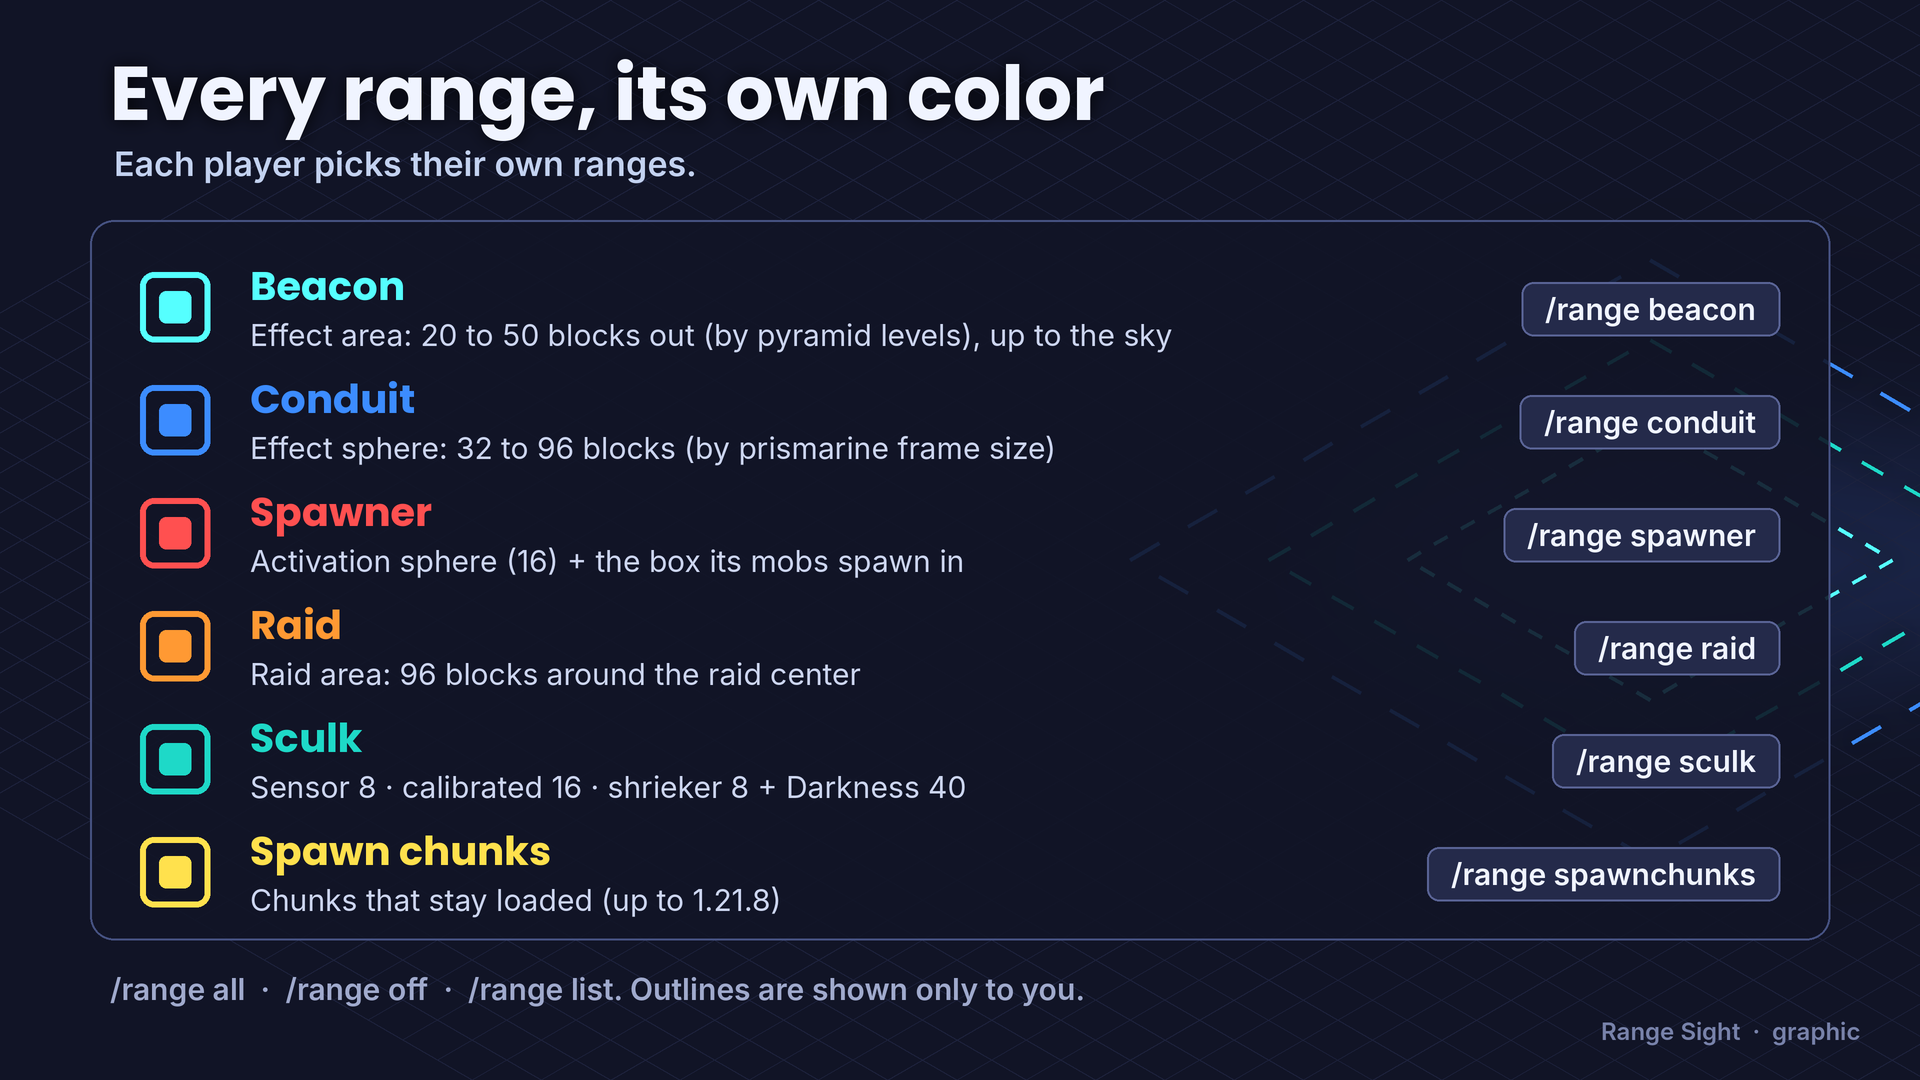
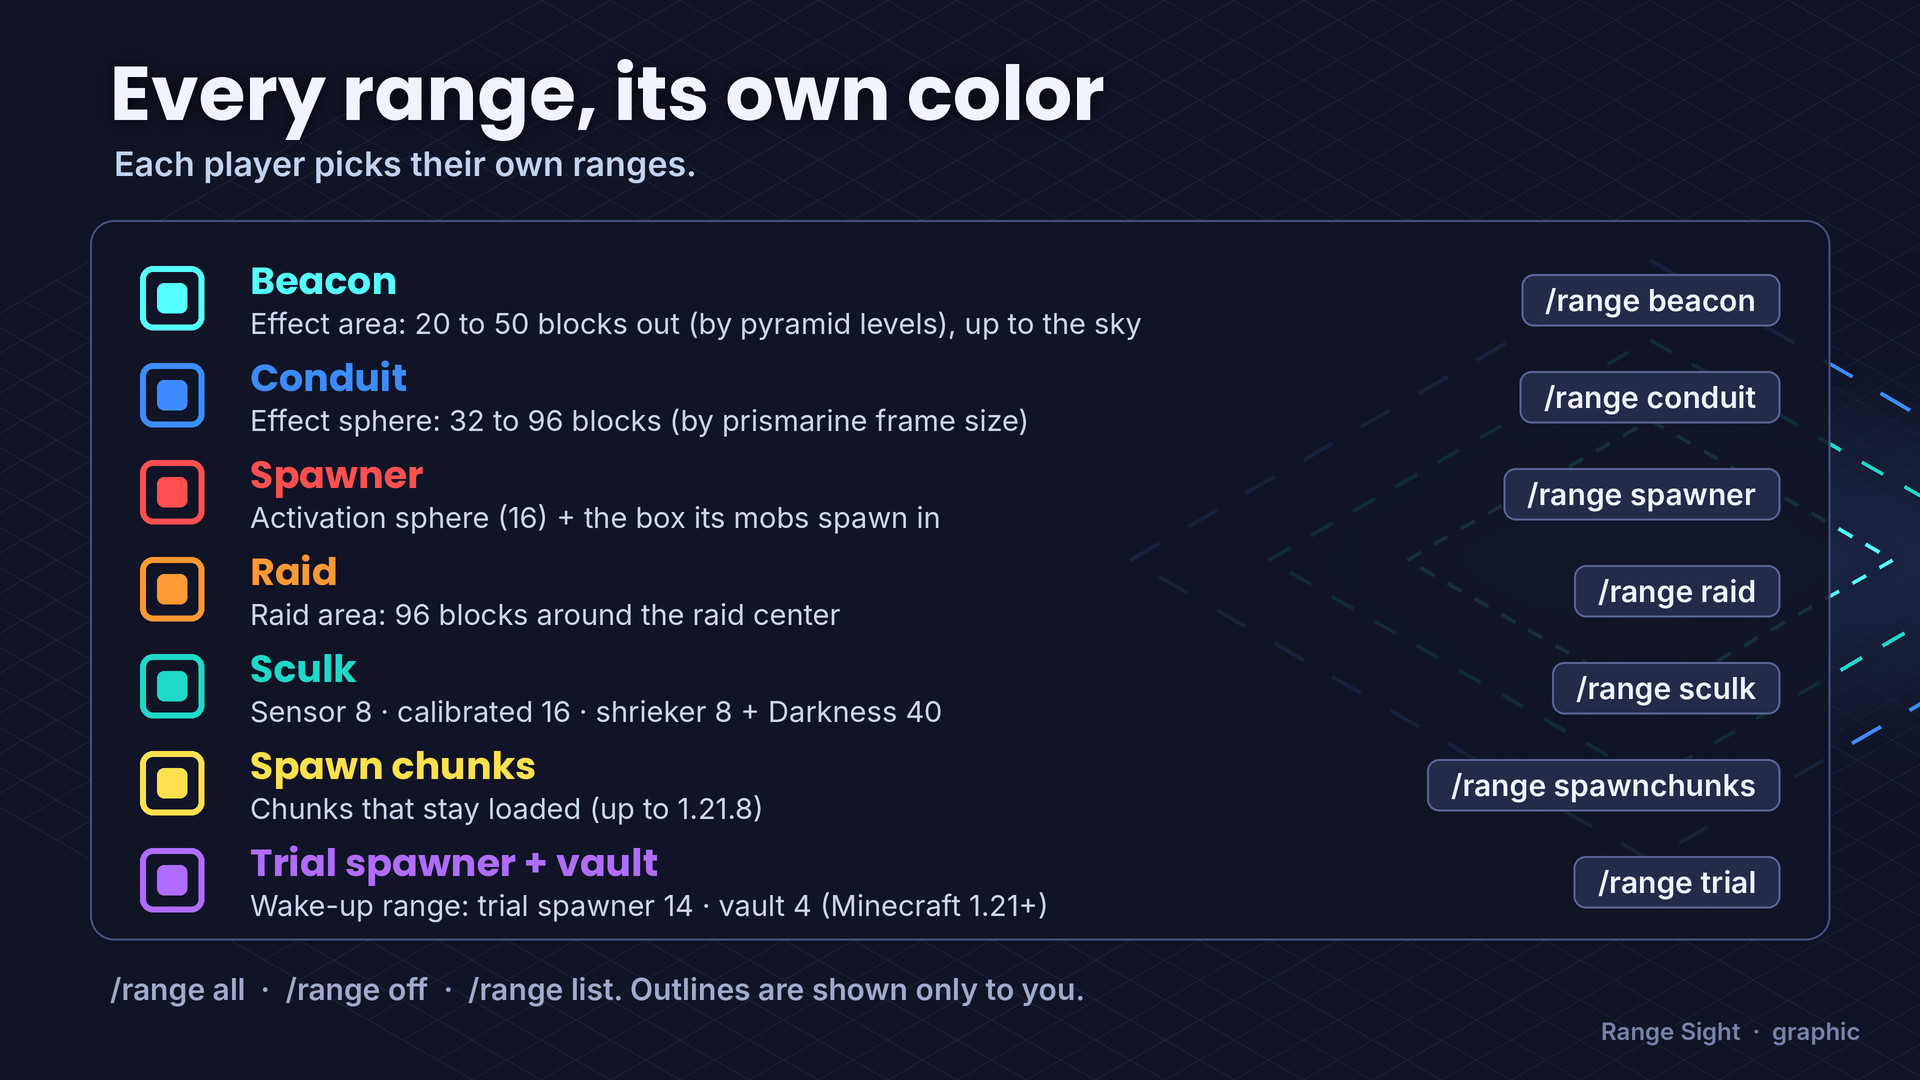
1.1.0 part 5: fix the client log check (zcat with no rolled logs), Java 8 setup retry, page shots for trial spawner, settings screen and far plugin particles, 1.1.0 page text, changelog, art with trial spawners
Claude-Session: https://claude.ai/code/session_018RUrFW1BxEHrpfjQ2iPLnX

Changed region(s): [[0.0625, 0.2444, 0.625, 0.8556], [0.7188, 0.2444, 0.9375, 0.8556]]

diff --git a/art/source/gallery.py b/art/source/gallery.py
@@ -77,7 +77,8 @@ def title_card(plugin=False):
     im = B.shadow_text(im, (636 * S, 500 * S), line, f(B.FS, 46), (200, 230, 255), 'ls')
     d = ImageDraw.Draw(im)
     chips(d, 636 * S, 560 * S, [('Beacons', 'beacon'), ('Conduits', 'conduit'), ('Spawners', 'spawner'),
-                                ('Raids', 'raid'), ('Sculk', 'sculk'), ('Spawn chunks', 'spawn')], 32, 1860)
+                                ('Raids', 'raid'), ('Sculk', 'sculk'), ('Spawn chunks', 'spawn'),
+                                ('Trial spawners', 'trial')], 32, 1860)
     sub = ('Paper 1.12.2 to 26.3  ·  one jar  ·  requires LogicLib Plugin' if plugin
            else 'Forge + NeoForge  ·  Minecraft 1.12.2 to 26.3  ·  client-side')
     d.text((636 * S, 780 * S), sub, font=f(B.FS, 34), fill=MUTED, anchor='ls')
@@ -91,7 +92,8 @@ def chart(plugin=False):
             ('spawner', 'Spawner', 'Activation sphere (16) + the box its mobs spawn in', 'Numpad 3', '/range spawner'),
             ('raid', 'Raid', 'Raid area: 96 blocks around the raid center', 'Numpad 4', '/range raid'),
             ('sculk', 'Sculk', 'Sensor 8 · calibrated 16 · shrieker 8 + Darkness 40', 'Numpad 5', '/range sculk'),
-            ('spawn', 'Spawn chunks', 'Chunks that stay loaded (up to 1.21.8)', 'Numpad 6', '/range spawnchunks')]
+            ('spawn', 'Spawn chunks', 'Chunks that stay loaded (up to 1.21.8)', 'Numpad 6', '/range spawnchunks'),
+            ('trial', 'Trial spawner + vault', 'Wake-up range: trial spawner 14 · vault 4 (Minecraft 1.21+)', 'Numpad 7', '/range trial')]
     im = canvas(1650, 560, [(300, C['conduit']), (220, C['sculk']), (140, C['beacon'])])
     im = title(im, 'Every range, its own color' + ('' if plugin else ' and key'),
                'Turn on only the ranges you need.' if not plugin else 'Each player picks their own ranges.')
@@ -100,19 +102,19 @@ def chart(plugin=False):
     y = 250 * S
     for key, name, desc, k, cmd in rows:
         col = C[key]
-        d.rounded_rectangle([140 * S, y + 22 * S, 210 * S, y + 92 * S], radius=14 * S, outline=col + (255,), width=6 * S)
-        d.rounded_rectangle([159 * S, y + 41 * S, 191 * S, y + 73 * S], radius=7 * S, fill=col + (255,))
-        d.text((250 * S, y + 50 * S), name, font=f(B.FB, 40), fill=col, anchor='ls')
-        d.text((250 * S, y + 96 * S), desc, font=f(B.FR, 30), fill=(205, 214, 240), anchor='ls')
+        d.rounded_rectangle([140 * S, y + 16 * S, 204 * S, y + 80 * S], radius=13 * S, outline=col + (255,), width=6 * S)
+        d.rounded_rectangle([157 * S, y + 33 * S, 187 * S, y + 63 * S], radius=7 * S, fill=col + (255,))
+        d.text((250 * S, y + 44 * S), name, font=f(B.FB, 38), fill=col, anchor='ls')
+        d.text((250 * S, y + 84 * S), desc, font=f(B.FR, 29), fill=(205, 214, 240), anchor='ls')
         lab = cmd if plugin else k
         fo = f(B.FS, 30)
         kw = d.textlength(lab, font=fo)
-        d.rounded_rectangle([1780 * S - kw - 48 * S, y + 32 * S, 1780 * S, y + 86 * S], radius=12 * S,
+        d.rounded_rectangle([1780 * S - kw - 48 * S, y + 24 * S, 1780 * S, y + 76 * S], radius=12 * S,
                             fill=(36, 42, 74, 255), outline=(90, 100, 150, 255), width=2 * S)
-        d.text((1780 * S - 24 * S - kw / 2, y + 59 * S), lab, font=fo, fill=WHITE, anchor='mm')
-        y += 113 * S
+        d.text((1780 * S - 24 * S - kw / 2, y + 50 * S), lab, font=fo, fill=WHITE, anchor='mm')
+        y += 97 * S
     foot = ('/range all  ·  /range off  ·  /range list. Outlines are shown only to you.' if plugin
-            else 'Numpad 0 turns every range on or off. Change keys in Options → Controls; colors in config/rangesight.json.')
+            else 'Numpad 0: every range on/off  ·  Numpad . (period): settings screen with colors  ·  keys in Options → Controls')
     d.text((110 * S, 1000 * S), foot, font=f(B.FS, 30), fill=MUTED, anchor='ls')
     tag(im)
     finish(im, 'p02-commands.png' if plugin else 'm02-ranges.png')

diff --git a/mod/neoforge/src/main/java/com/cosmiclogic/rangesight/client/PageShots.java b/mod/neoforge/src/main/java/com/cosmiclogic/rangesight/client/PageShots.java
@@ -177,6 +177,7 @@ final class PageShots {
         BlockPos calibrated = p.offset(19, 0, 30);
         BlockPos shrieker = p.offset(11, 0, 41);
         BlockPos tank = p.offset(260, 3, 26);
+        BlockPos trial = p.offset(-40, 0, 6);
 
         STEPS.add(mc -> {
             server(mc, level -> {
@@ -188,6 +189,8 @@ final class PageShots {
                 level.setBlock(calibrated, Blocks.CALIBRATED_SCULK_SENSOR.defaultBlockState(), 3);
                 level.setBlock(shrieker, Blocks.SCULK_SHRIEKER.defaultBlockState(), 3);
                 conduitTank(level, tank);
+                level.setBlock(trial, Blocks.TRIAL_SPAWNER.defaultBlockState(), 3);
+                level.setBlock(trial.offset(6, 0, 0), Blocks.VAULT.defaultBlockState(), 3);
                 ServerPlayer sp = player(mc);
                 sp.setGameMode(GameType.CREATIVE);
                 sp.getAbilities().flying = true;
@@ -201,6 +204,7 @@ final class PageShots {
         shot("spawner", EnumSet.of(RangeType.SPAWNER), spawner.offset(-14, 9, -22), spawner);
         shot("sculk", EnumSet.of(RangeType.SCULK), calibrated.offset(-46, 30, -40), calibrated.offset(-4, 0, 4));
         shot("spawn-chunks", EnumSet.of(RangeType.SPAWN_CHUNKS), p.offset(-46, 34, -60), p.offset(0, 6, 0));
+        shot("trial", EnumSet.of(RangeType.TRIAL), trial.offset(-16, 9, -20), trial.offset(3, 0, 0));
         STEPS.add(mc -> {
             view(mc, tank.offset(-34, 12, -38), tank);
             return 120; // new chunks load
@@ -222,6 +226,15 @@ final class PageShots {
             return 6;
         });
         STEPS.add(mc -> save(mc, "mod-hud-toggle"));
+        // The settings screen (numpad . or the mod list's Config button), over the world
+        STEPS.add(mc -> {
+            only(EnumSet.of(RangeType.BEACON, RangeType.SPAWNER, RangeType.SCULK, RangeType.TRIAL));
+            view(mc, beacon.offset(-40, 15, -46), beacon.offset(2, -4, 6));
+            mc.options.hideGui = false;
+            mc.setScreen(new SettingsScreen(null));
+            return 20;
+        });
+        STEPS.add(mc -> save(mc, "mod-settings"));
         // Controls: the Range Sight key binds
         STEPS.add(mc -> {
             mc.setScreen(keyBindsScreen(mc));
@@ -285,6 +298,7 @@ final class PageShots {
         BlockPos calibrated = p.offset(19, 0, 30);
         BlockPos shrieker = p.offset(11, 0, 41);
         BlockPos tank = p.offset(40, 3, -30);
+        BlockPos trial = p.offset(-40, 0, 6);
 
         List<String> build = new ArrayList<>();
         build.add("time set 6000");
@@ -307,6 +321,8 @@ final class PageShots {
         build.add(fill(tank.offset(-2, 0, -2), tank.offset(2, 0, 2), "prismarine_bricks"));
         build.add(fill(tank.offset(-1, 0, -1), tank.offset(1, 0, 1), "water"));
         build.add(set(tank, "conduit"));
+        build.add(set(trial, "trial_spawner"));
+        build.add(set(trial.offset(6, 0, 0), "vault"));
         STEPS.add(mc -> {
             for (String c : build) {
                 command(mc, c);
@@ -320,6 +336,9 @@ final class PageShots {
         pshot("conduit", "conduit", tank.offset(-18, 6, -20), tank);
         pshot("spawn-chunks", "spawnchunks", p.offset(-30, 6, -36), p.offset(-20, 2, -8));
         pshot("particles-close", "spawner", spawner.offset(-8, 4, -10), spawner.offset(0, 3, 0));
+        pshot("trial", "trial", trial.offset(-16, 7, -20), trial.offset(3, 0, 0));
+        // Long-distance particles (LogicLib 0.2.0): the whole 50-block beacon range from far outside it
+        pshot("beacon-far", "beacon", beacon.offset(-78, 22, -70), beacon.offset(0, 4, 0));
         // chat close-ups with a large GUI so the text fills the picture
         STEPS.add(mc -> {
             command(mc, "range off");

diff --git a/art/source/banners.py b/art/source/banners.py
@@ -12,7 +12,7 @@ WHITE = (240, 244, 255)
 MUTED = (160, 170, 205)
 COLS = {
     'beacon': (85, 255, 255), 'conduit': (60, 140, 255), 'spawner': (255, 80, 80),
-    'raid': (255, 153, 51), 'sculk': (30, 217, 200), 'spawn': (255, 225, 77)}
+    'raid': (255, 153, 51), 'sculk': (30, 217, 200), 'spawn': (255, 225, 77), 'trial': (176, 108, 255)}
 FB = '/usr/share/fonts/truetype/google-fonts/Poppins-Bold.ttf'
 FR = '/usr/share/fonts/opentype/inter/Inter-Regular.otf'
 FS = '/usr/share/fonts/opentype/inter/Inter-SemiBold.otf'
@@ -105,7 +105,7 @@ def header():
     im = shadow_text(im, (446 * S, 220 * S), 'See the invisible ranges in your world.', font(FS, 38), (200, 230, 255), 'ls')
     d = ImageDraw.Draw(im)
     chips = [('Beacons', 'beacon'), ('Conduits', 'conduit'), ('Spawners', 'spawner'),
-             ('Raids', 'raid'), ('Sculk', 'sculk'), ('Spawn chunks', 'spawn')]
+             ('Raids', 'raid'), ('Sculk', 'sculk'), ('Spawn chunks', 'spawn'), ('Trial spawners', 'trial')]
     f = font(FS, 27)
     x, y = 446 * S, 268 * S
     for i, (label, key) in enumerate(chips):
@@ -173,9 +173,11 @@ def ranges(plugin=False):
             ('spawner', 'Spawner', 'Activation sphere (16) + the box mobs spawn in', 'Numpad 3'),
             ('raid', 'Raid', 'Raid area: 96 blocks around the raid center', 'Numpad 4'),
             ('sculk', 'Sculk', 'Sensor 8 · calibrated 16 · shrieker 8 + Darkness 40', 'Numpad 5'),
-            ('spawn', 'Spawn chunks', 'Chunks that stay loaded (up to 1.21.8)', 'Numpad 6')]
+            ('spawn', 'Spawn chunks', 'Chunks that stay loaded (up to 1.21.8)', 'Numpad 6'),
+            ('trial', 'Trial spawner + vault', 'Wake-up range: trial spawner 14 · vault 4 (1.21+)', 'Numpad 7')]
     if plugin:
-        cmds = ['/range beacon', '/range conduit', '/range spawner', '/range raid', '/range sculk', '/range spawnchunks']
+        cmds = ['/range beacon', '/range conduit', '/range spawner', '/range raid', '/range sculk', '/range spawnchunks',
+                '/range trial']
         rows = [(r[0], r[1], r[2], c) for r, c in zip(rows, cmds)]
     W, H = 1600 * S, (150 + 96 * len(rows) + 120) * S
     im = background(W, H, 1350 * S, H // 2, [(260, COLS['conduit']), (190, COLS['sculk']), (120, COLS['beacon'])])
@@ -199,7 +201,7 @@ def ranges(plugin=False):
         d.text((1500 * S - 20 * S - kw / 2, y + 49 * S), k, font=font(FS, 26), fill=WHITE, anchor='mm')
         y += 96 * S
     foot = ('/range all  ·  /range off  ·  /range list. Outlines are shown only to you.' if plugin
-            else 'Numpad 0 turns every range on or off. Colors and keys can be changed.')
+            else 'Numpad 0: every range on/off  ·  Numpad . (period): settings screen  ·  keys can be changed')
     d.text((60 * S, H - 30 * S), foot, font=font(FS, 26), fill=MUTED, anchor='ls')
     finish(im, os.path.join(ART, 'features', 'ranges-plugin.png' if plugin else 'ranges.png'))
 

diff --git a/docs/curseforge-plugin.md b/docs/curseforge-plugin.md
@@ -2,11 +2,13 @@
 
 **Type /range. See the range.**
 
-> ⚠ **Requires [LogicLib Plugin](https://www.curseforge.com/minecraft/bukkit-plugins/logiclib-plugin).** Put it in your `plugins` folder too. The CurseForge app adds it for you automatically.
+> ⚠ **Requires [LogicLib Plugin](https://www.curseforge.com/minecraft/bukkit-plugins/logiclib-plugin) 0.2.0 or newer.** Put it in your `plugins` folder too. The CurseForge app adds it for you automatically.
 
 Your players keep asking: is the spawner close enough? Does the beacon reach my house? Will the sculk sensor hear me? **Range Sight Plugin lets every player see the invisible ranges with one command**, no mods needed.
 
 This is the **server plugin** version of [Range Sight](https://www.curseforge.com/minecraft/mc-mods/range-sight). Players don't install anything.
+
+🆕 **1.1.0:** outlines are visible from far away, trial spawner and vault ranges, `/range help`, `/range reload` and a `config.yml` for owners.
 
 ---
 
@@ -34,6 +36,16 @@ Shows how far sculk sensors, calibrated sensors and shriekers can hear, and how 
 ### 🗺 Spawn chunks
 Shows which chunks stay loaded around world spawn (up to Minecraft 1.21.8, since newer versions no longer have spawn chunks).
 
+### ⏳ Trial spawners and vaults
+Shows how close a player has to get before a trial spawner wakes up (14 blocks) or a vault opens (4 blocks). Minecraft 1.21 and up.
+
+![A trial spawner and a vault as particles](https://raw.githubusercontent.com/CosmicLogic0/range-sight/main/docs/images/gallery/plugin-trial.jpg)
+
+### 🔭 Visible from far away
+Outlines use long-distance particles, so a 50-block beacon range shows completely, not just the part within 32 blocks of you. Server owners can turn this off in `config.yml`.
+
+![A full beacon range seen from outside](https://raw.githubusercontent.com/CosmicLogic0/range-sight/main/docs/images/gallery/plugin-beacon-far.jpg)
+
 ![Every range, its own color](https://raw.githubusercontent.com/CosmicLogic0/range-sight/main/docs/images/ranges-plugin.png)
 
 ### ⚡ Light on your server
@@ -45,16 +57,21 @@ Range blocks near each player are looked up every few seconds, not every tick, a
 | Command | What it does |
 |---|---|
 | **/range** | Every range on, or off if some are on |
-| **/range beacon** | Beacon range on / off (also: `conduit`, `spawner`, `raid`, `sculk`, `spawnchunks`) |
+| **/range beacon** | Beacon range on / off (also: `conduit`, `spawner`, `raid`, `sculk`, `spawnchunks`, `trial`) |
 | **/range all** | Every range on |
 | **/range off** | Every range off |
 | **/range list** | Shows every range type, its color and whether it's on |
+| **/range help** | Explains every command and range type |
+| **/range reload** | Reloads `config.yml` (admins only) |
 
-Permission: `rangesight.use` (everyone has it by default).
+Permissions: `rangesight.use` (everyone has it by default) and `rangesight.admin` for `/range reload` (operators by default). A range your Minecraft version doesn't have says so instead of drawing nothing.
+
+## 🔧 Settings for server owners
+`plugins/RangeSight/config.yml` sets how far to look for range blocks, how many outlines each player gets, how often to look again, long-distance particles on or off, and every range's color. Change it and run `/range reload`. If the file gets a typo, it's kept as `config.yml.broken-<date>` and the defaults are used, so the plugin never stops working.
 
 ## 📦 Requirements
 - **Paper:** Minecraft 1.12.2, 1.16.5, 1.18.2, 1.19.2, 1.20.1, 1.21.1, 1.21.11, 26.1, 26.2 and 26.3 (one file for all of them)
-- **Requires [LogicLib Plugin](https://www.curseforge.com/minecraft/bukkit-plugins/logiclib-plugin)** (shared code for my plugins). The plugin won't start without it.
+- **Requires [LogicLib Plugin](https://www.curseforge.com/minecraft/bukkit-plugins/logiclib-plugin) 0.2.0 or newer** (shared code for my plugins). Without it, or with an older one, Range Sight Plugin doesn't start and says why in the console.
 - Server only. Players don't need to install anything.
 - Playing with Forge or NeoForge instead? Get the mod: **[Range Sight](https://www.curseforge.com/minecraft/mc-mods/range-sight)**.
 

diff --git a/docs/curseforge-mod.md b/docs/curseforge-mod.md
@@ -4,6 +4,8 @@
 
 Is the spawner close enough to activate? Does the beacon reach your base? Will the sculk sensor hear you? Minecraft never shows you, so you guess, walk, count blocks and guess again. **Range Sight draws every invisible range right in your world.**
 
+🆕 **1.1.0:** trial spawner and vault ranges, a settings screen (colors, line width, search distance), a one-time tip on your first world, and a safer settings file.
+
 ---
 
 🧩 **Works on any server.** Range Sight is client-side, so you can use it in single player and on servers that don't have it installed.
@@ -34,18 +36,28 @@ See how far a sculk sensor (8 blocks) and a calibrated sensor (16) can hear you,
 ### 🗺 Spawn chunks
 See which chunks stay loaded around world spawn, for farms that keep running while you're away (Minecraft 1.12.2 to 1.21.8, since newer versions no longer have spawn chunks).
 
+### ⏳ Trial spawners and vaults
+See how close you have to get before a trial spawner wakes up (14 blocks) and before a vault opens for you (4 blocks). Minecraft 1.21 and newer, since older versions don't have these blocks.
+
+![A trial spawner and a vault with their ranges](https://raw.githubusercontent.com/CosmicLogic0/range-sight/main/docs/images/gallery/mod-trial.jpg)
+
 ![Every range, its own color and key](https://raw.githubusercontent.com/CosmicLogic0/range-sight/main/docs/images/ranges.png)
 
+### ⚙ Settings screen
+Press **Numpad .** (or click **Config** in the mod list) to turn each range on or off, pick its color, and set the line width and how far Range Sight looks. Every button explains itself when you hover over it. Works on every version, 1.12.2 to 26.3.
+
+![The Range Sight settings screen](https://raw.githubusercontent.com/CosmicLogic0/range-sight/main/docs/images/gallery/mod-settings.jpg)
+
 ### 🎨 Its own color for every range
-Every type has its own color, so you always know what you're looking at. Change any color to the one you like.
+Every type has its own color, so you always know what you're looking at. Click **Color** in the settings screen to try another one, or type any `#RRGGBB` color into `config/rangesight.json`.
 
 ### ⚡ No lag
-Range Sight looks for range blocks once a second, not every frame, and draws all the outlines in one go. Only the closest 48 are drawn.
+Range Sight looks for range blocks once a second, not every frame, and draws all the outlines in one go. Only the closest 48 are drawn. On a slow computer, lower the search distance in the settings screen.
 
 ![Sculk ranges](https://raw.githubusercontent.com/CosmicLogic0/range-sight/main/docs/images/gallery/mod-sculk.jpg)
 
 ### 💾 It remembers
-Which ranges are on and your colors are saved to `config/rangesight.json`.
+Which ranges are on and your colors are saved to `config/rangesight.json`. If that file ever gets a typo, Range Sight keeps your file (as `rangesight.json.broken-<date>`), starts with the default settings and tells you in chat, instead of crashing or wiping it.
 
 ## 🎮 Controls
 | Key | What it does |
@@ -56,9 +68,13 @@ Which ranges are on and your colors are saved to `config/rangesight.json`.
 | **Numpad 4** | Raid range on / off |
 | **Numpad 5** | Sculk ranges on / off |
 | **Numpad 6** | Spawn chunks on / off |
+| **Numpad 7** | Trial spawner and vault ranges on / off |
 | **Numpad 0** | Every range on / off |
+| **Numpad .** | Open the settings screen |
 
-Change any key in Options → Controls → Key Binds. All ranges start off, so turn on the ones you need.
+Change any key in Options → Controls → Key Binds. All ranges start off; the first time you join a world, a chat tip tells you which key shows them all.
+
+Only the ranges your Minecraft version has get a key: conduits from 1.13, raids from 1.14, sculk from 1.17 (1.18.2 in this mod), trial spawners and vaults from 1.21, and spawn chunks up to 1.21.8.
 
 ## 📦 Requirements
 - **Forge:** Minecraft 1.12.2, 1.16.5, 1.18.2, 1.19.2, 1.20.1, 1.21.1, 1.21.11, 26.1, 26.2 and 26.3

diff --git a/docs/changelog-1.1.0.md b/docs/changelog-1.1.0.md
@@ -1,0 +1,24 @@
+# Range Sight 1.1.0
+
+## New
+- **Trial spawner and vault ranges** (Minecraft 1.21 and newer): see how close you must be for a trial spawner to wake up (14 blocks) or a vault to open (4 blocks). Key: Numpad 7. Plugin: `/range trial`.
+- **Settings screen** on every version (1.12.2 to 26.3): turn each range on or off, change its color, line width and search distance. Open it with Numpad . or the **Config** button in the mod list. Hovering a button explains it (the 1.12.2 screen too).
+- **First-time tip:** the first time you join a world, a chat message tells you which key shows every range.
+- **Plugin:** `/range help`, `/range reload` (permission `rangesight.admin`) and a `config.yml` for search distance, outline count, rescan time, long-distance particles and colors.
+- **Plugin:** outlines use LogicLib's long-distance particles, so whole ranges show from more than 32 blocks away.
+
+## Improved
+- Only the ranges your Minecraft version has get a key and a settings row (no more do-nothing keys for sculk on 1.16.5, or for spawn chunks on 1.21.9 and newer).
+- The plugin says so when a range doesn't exist on the server's Minecraft version, instead of drawing nothing.
+- Your choices in the plugin are kept when you log out and back in.
+- Clearer key names, help text and chat messages.
+- The plugin now requires LogicLib Plugin 0.2.0 or newer, and tells the server owner clearly if it's missing or too old.
+
+## Fixed
+- A typo in `config/rangesight.json` reset and overwrote the file. Now it's kept as `rangesight.json.broken-<date>`, the defaults are used, and you're told in chat.
+- Outlines from the world or dimension you just left could stay on screen for a moment after changing dimension or opening another world.
+- Plugin outlines disappeared beyond 32 blocks, so large ranges (beacon, conduit, raid) were cut off.
+- Forge 1.16.5 and 1.18.2 showed Range Sight as missing in the server list on servers without it (it's client-side, so it's now marked as optional there).
+- Forge 1.21.1 used loader methods that are being removed.
+
+All 26 files were started in a real game (client and server) and tested automatically before release, including a broken settings file, the Nether, a dimension change, trial spawners and the settings screen.
